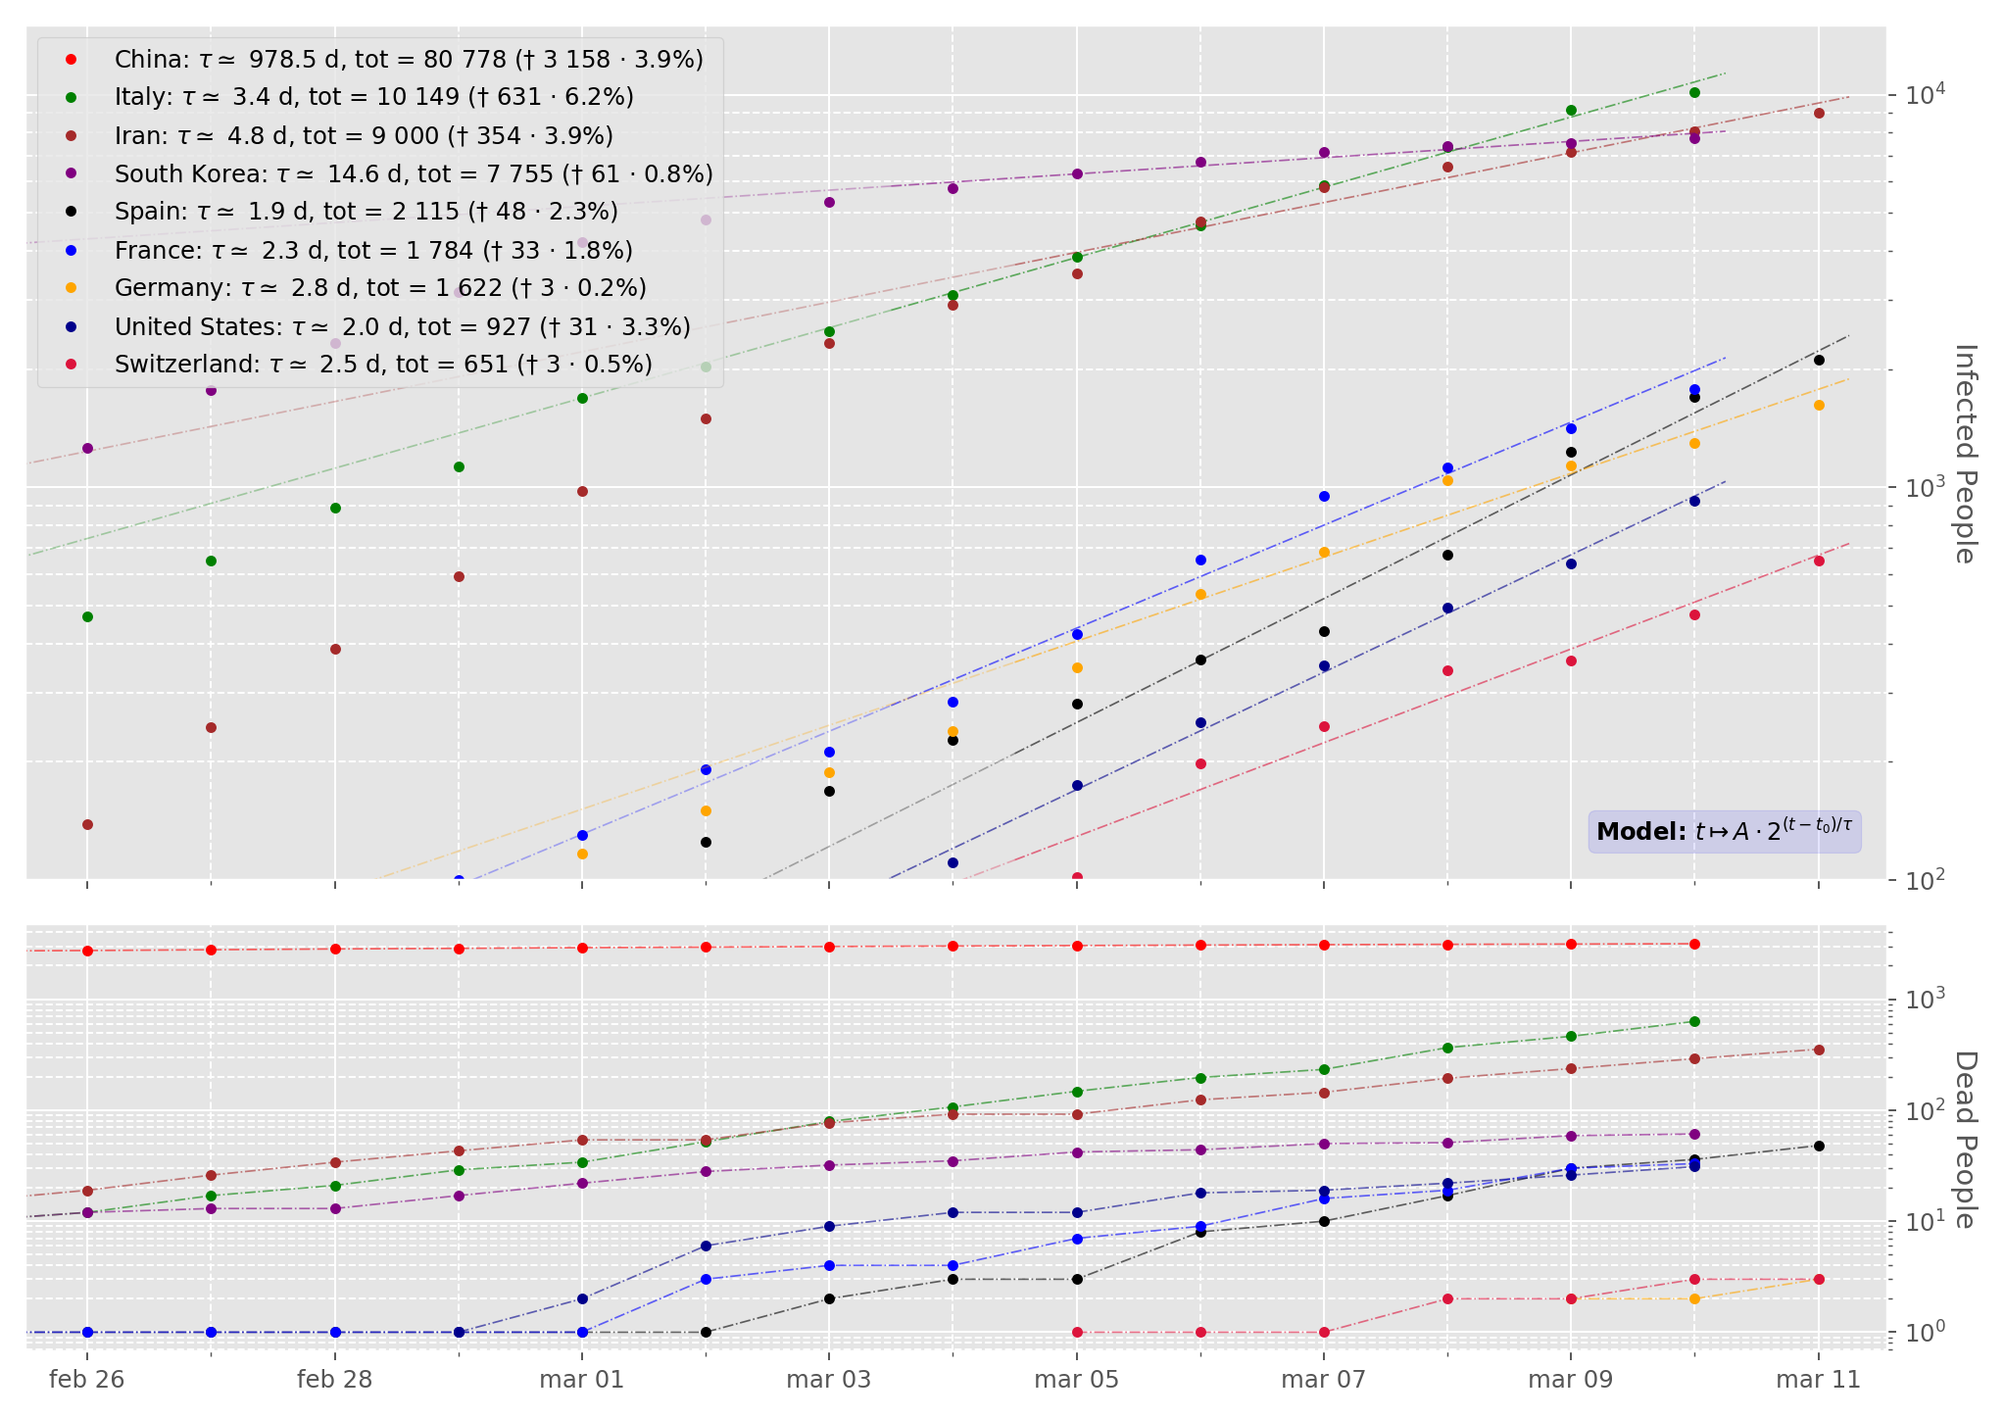
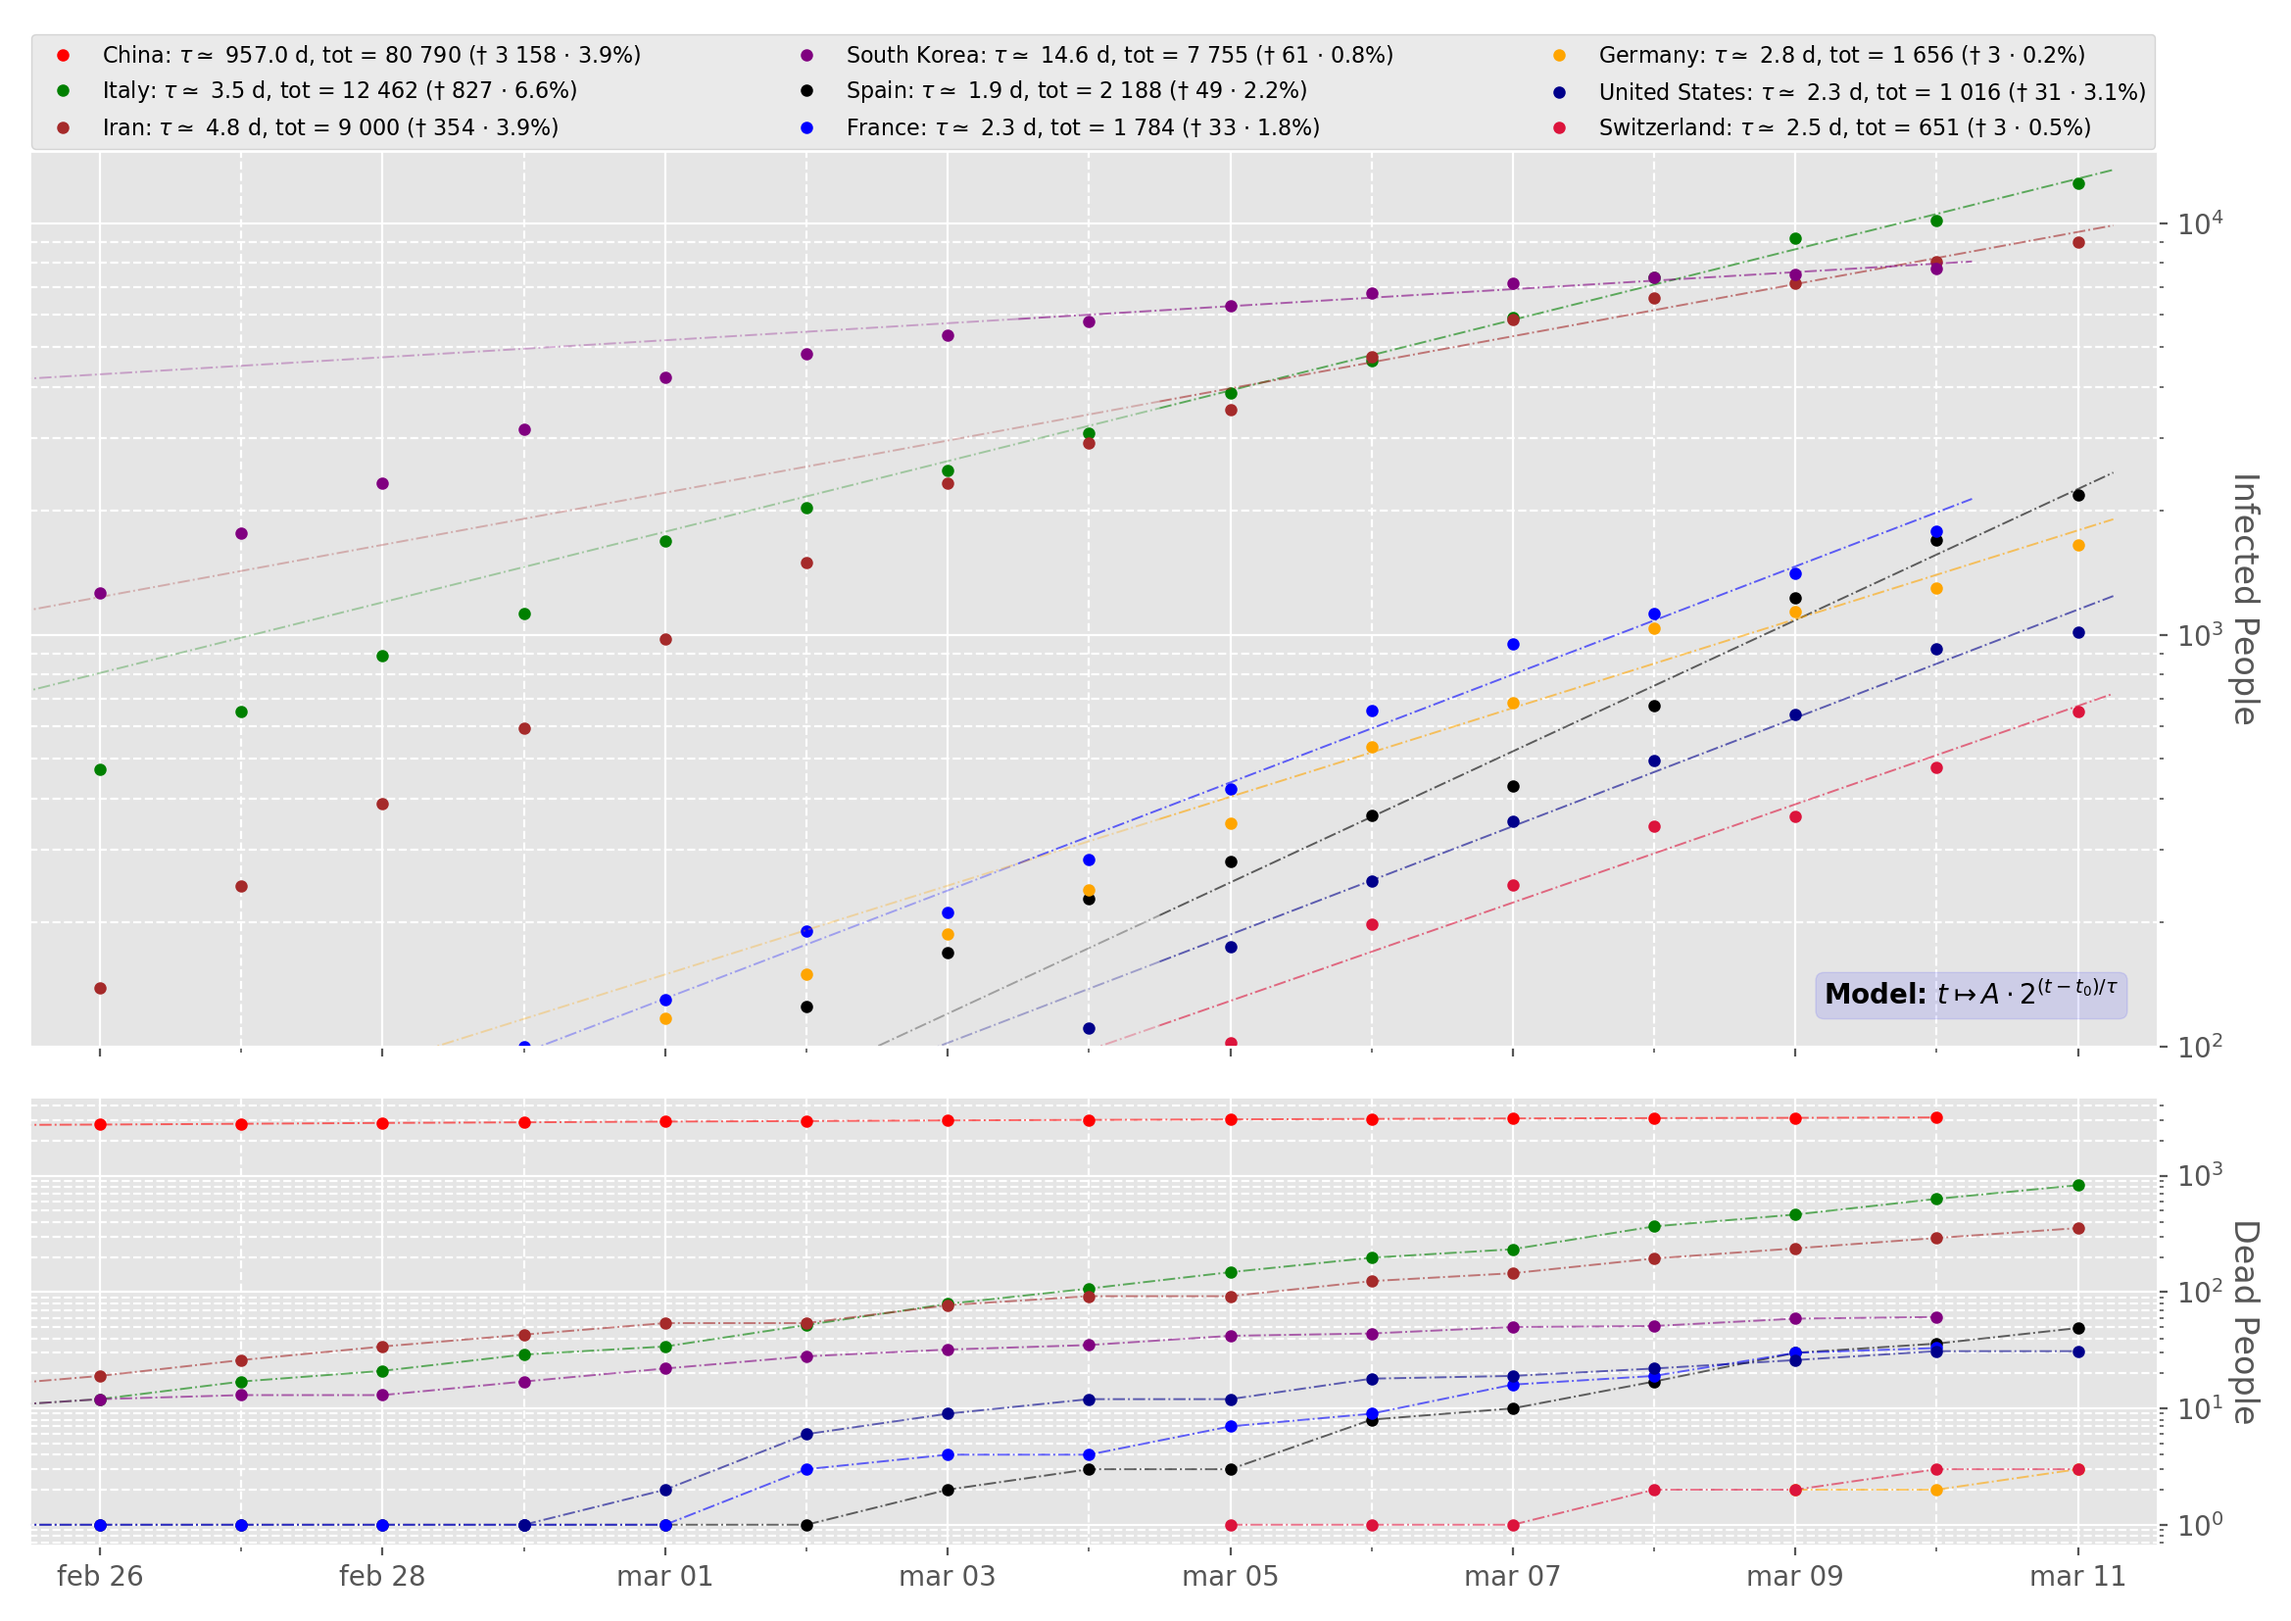
minor commit

diff --git a/Coronavirus/coronavirus.py b/Coronavirus/coronavirus.py
@@ -147,7 +147,8 @@ ax2.yaxis.tick_right()
 ax2.set_ylabel("Dead People", rotation=270, labelpad=13)
 ax2.yaxis.set_label_position("right")
 
-ax1.legend(loc="upper left")
+ax1.legend(loc="lower left", fontsize=8, ncol=3,
+           bbox_to_anchor=(-0.004, 0.99, 1.008, 0.), mode="expand")
 # ax1.legend(loc="upper left", bbox_to_anchor=(0, 0.9))
 ax1.grid(b=True, which="major", linestyle="-")
 ax1.grid(b=True, which="minor", linestyle="--")
@@ -155,5 +156,5 @@ ax2.grid(b=True, which="major", linestyle="-")
 ax2.grid(b=True, which="minor", linestyle="--")
 
 plt.tight_layout()
-plt.savefig("coronavirus.png", dpi=175)
+plt.savefig("coronavirus.png", dpi=200)
 plt.show()
